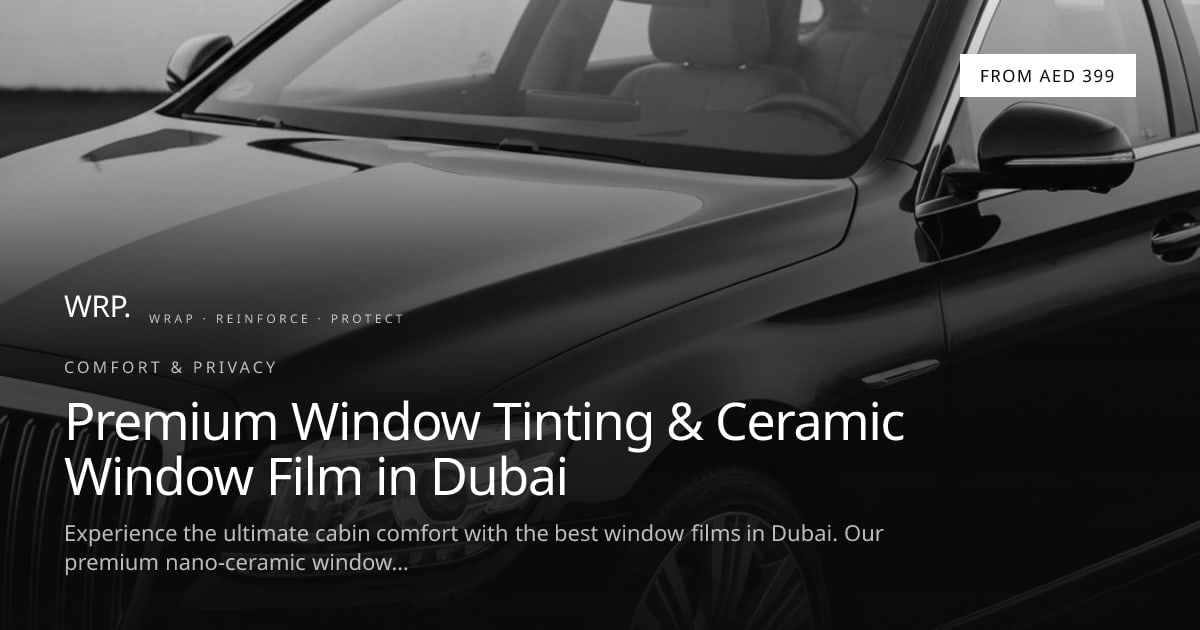
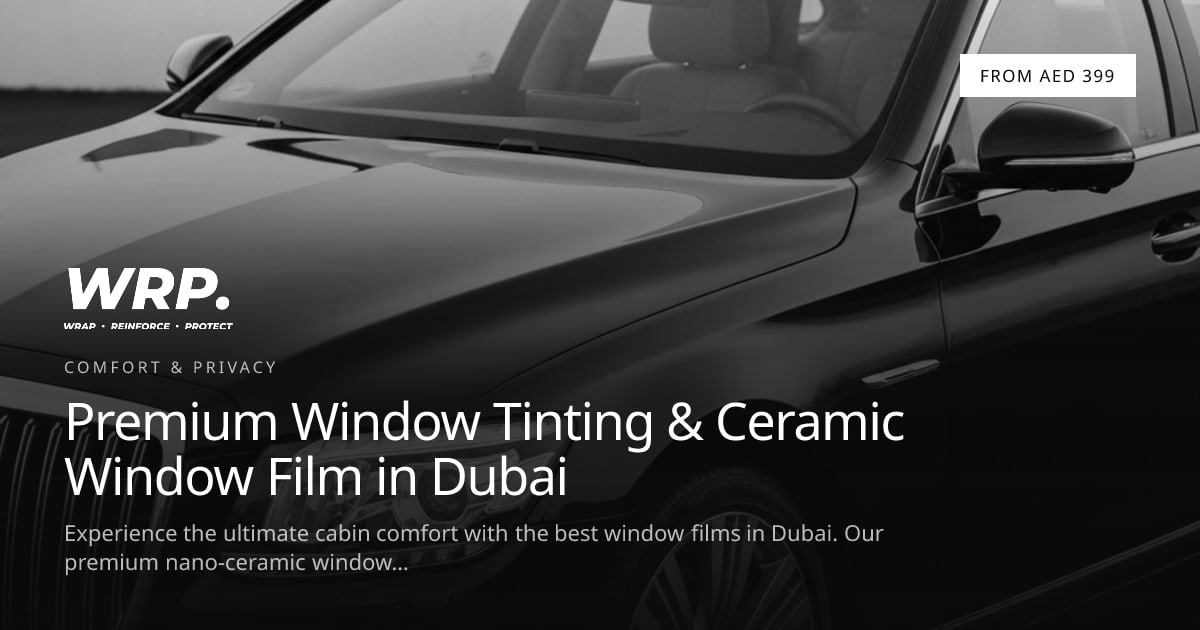
Draw the real WRP lockup on the cards, not a retyped one
The cards set "WRP." and the tagline as live text side by side on one
baseline. That is not the mark: the real lockup stacks
WRAP · REINFORCE · PROTECT underneath, and the heavy italic had silently
fallen back to upright because the bundled font carries no italic face.

Rasterise public/wrp-logo.svg instead. It is black artwork on
transparency, so negating the colour channels flips it white for the
scrim and leaves the alpha alone. Drawing the shipped asset means the
card cannot drift from the brand the way retyped text just did.

Changed region(s): [[0.0308, 0.4222, 0.2467, 0.5429], [0.2775, 0.4825, 0.3392, 0.5127]]

diff --git a/src/lib/og.ts b/src/lib/og.ts
@@ -63,6 +63,8 @@ export interface OgCardOptions {
   imageUrl?: string;
   /** Right-hand detail in the footer, e.g. "From AED 399". */
   badge?: string;
+  /** The real WRP lockup as a data URI, rasterised from public/wrp-logo.svg. */
+  logoUri?: string;
 }
 
 function el(type: string, props: Record<string, unknown>, children?: ReactNode): ReactElement {
@@ -84,31 +86,22 @@ function titleSize(title: string): number {
   return 62;
 }
 
-function wordmark(): ReactElement {
-  return el('div', {
-    style: {
-      display: 'flex',
-      alignItems: 'baseline',
-      color: PAPER,
-      fontSize: 30,
-      fontWeight: 900,
-      letterSpacing: -0.5,
-      fontStyle: 'italic',
-    },
-  }, [
-    el('div', { style: { display: 'flex' } }, 'WRP.'),
-    el('div', {
-      style: {
-        display: 'flex',
-        marginLeft: 14,
-        fontSize: 12,
-        fontStyle: 'normal',
-        fontWeight: 700,
-        letterSpacing: 3.4,
-        color: MUTED,
-      },
-    }, 'WRAP · REINFORCE · PROTECT'),
-  ]);
+/**
+ * The real lockup, rasterised from public/wrp-logo.svg.
+ *
+ * An earlier version set "WRP." and the tagline as live text side by side. That
+ * was wrong twice over: the actual mark stacks the tagline underneath, and the
+ * heavy italic silently fell back to upright because the bundled font has no
+ * italic face. Drawing the shipped artwork removes both failure modes.
+ */
+function wordmark(logoUri: string | undefined): ReactElement | null {
+  if (!logoUri) return null;
+  return el('img', {
+    src: logoUri,
+    width: 169,
+    height: 62,
+    style: { width: 169, height: 62, objectFit: 'contain' },
+  });
 }
 
 function tree(options: OgCardOptions, withImage: boolean): ReactElement {
@@ -144,13 +137,14 @@ function tree(options: OgCardOptions, withImage: boolean): ReactElement {
   }));
 
   // Footer band, left aligned.
-  const footer: ReactNode[] = [wordmark()];
+  const mark = wordmark(options.logoUri);
+  const footer: ReactNode[] = mark ? [mark] : [];
 
   if (options.eyebrow) {
     footer.push(el('div', {
       style: {
         display: 'flex',
-        marginTop: 30,
+        marginTop: 26,
         color: MUTED,
         fontSize: 16,
         fontWeight: 700,
@@ -163,7 +157,7 @@ function tree(options: OgCardOptions, withImage: boolean): ReactElement {
   footer.push(el('div', {
     style: {
       display: 'flex',
-      marginTop: options.eyebrow ? 14 : 26,
+      marginTop: options.eyebrow ? 14 : 22,
       color: PAPER,
       fontSize: titleSize(title),
       fontWeight: 800,
@@ -253,7 +247,7 @@ export async function createOgCard(options: OgCardOptions): Promise<Response> {
     // Text shaping failure: the two attempts above both carry the copy, so a
     // bad glyph takes out both. Drop to wordmark-only rather than return a 500
     // and leave the scraper with no image at all.
-    ['wordmark', { title: '', imageUrl: options.imageUrl }, Boolean(options.imageUrl)],
+    ['wordmark', { title: '', imageUrl: options.imageUrl, logoUri: options.logoUri }, Boolean(options.imageUrl)],
   ];
 
   let lastError: unknown;
